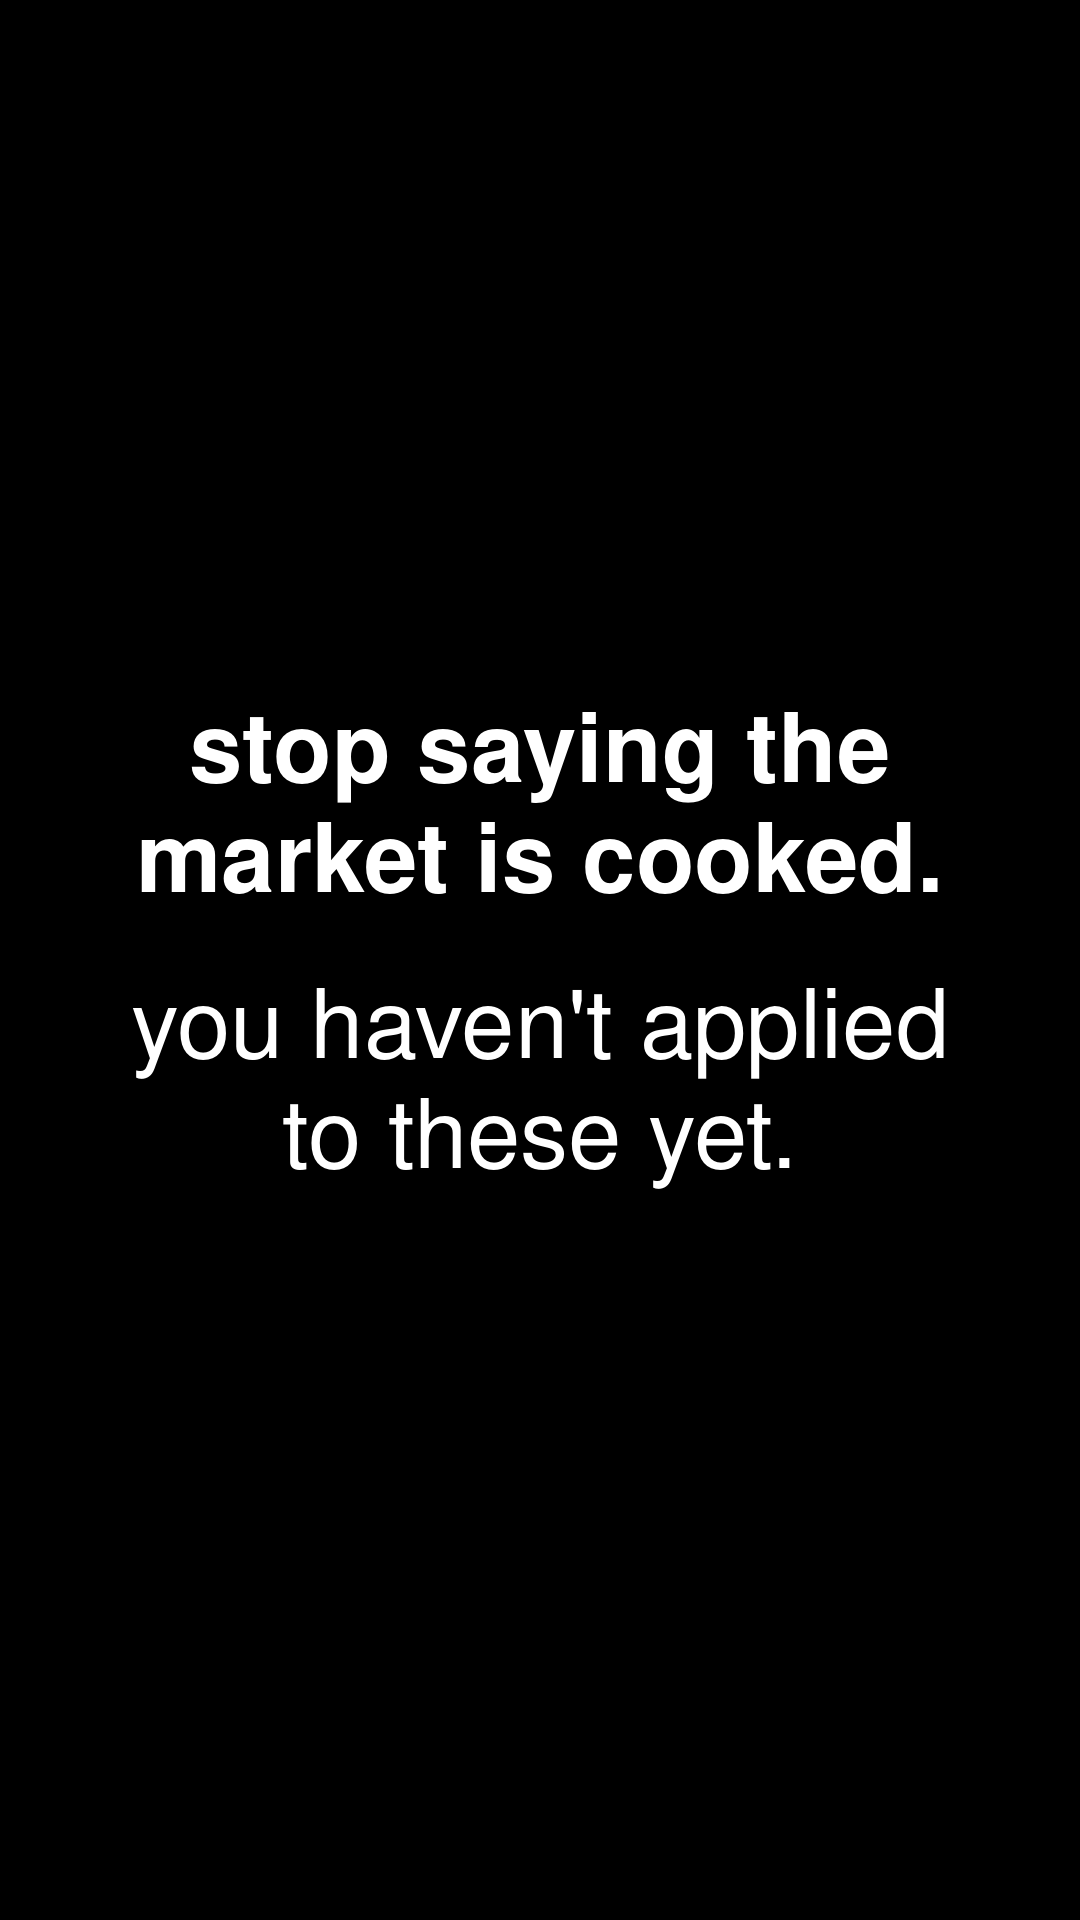
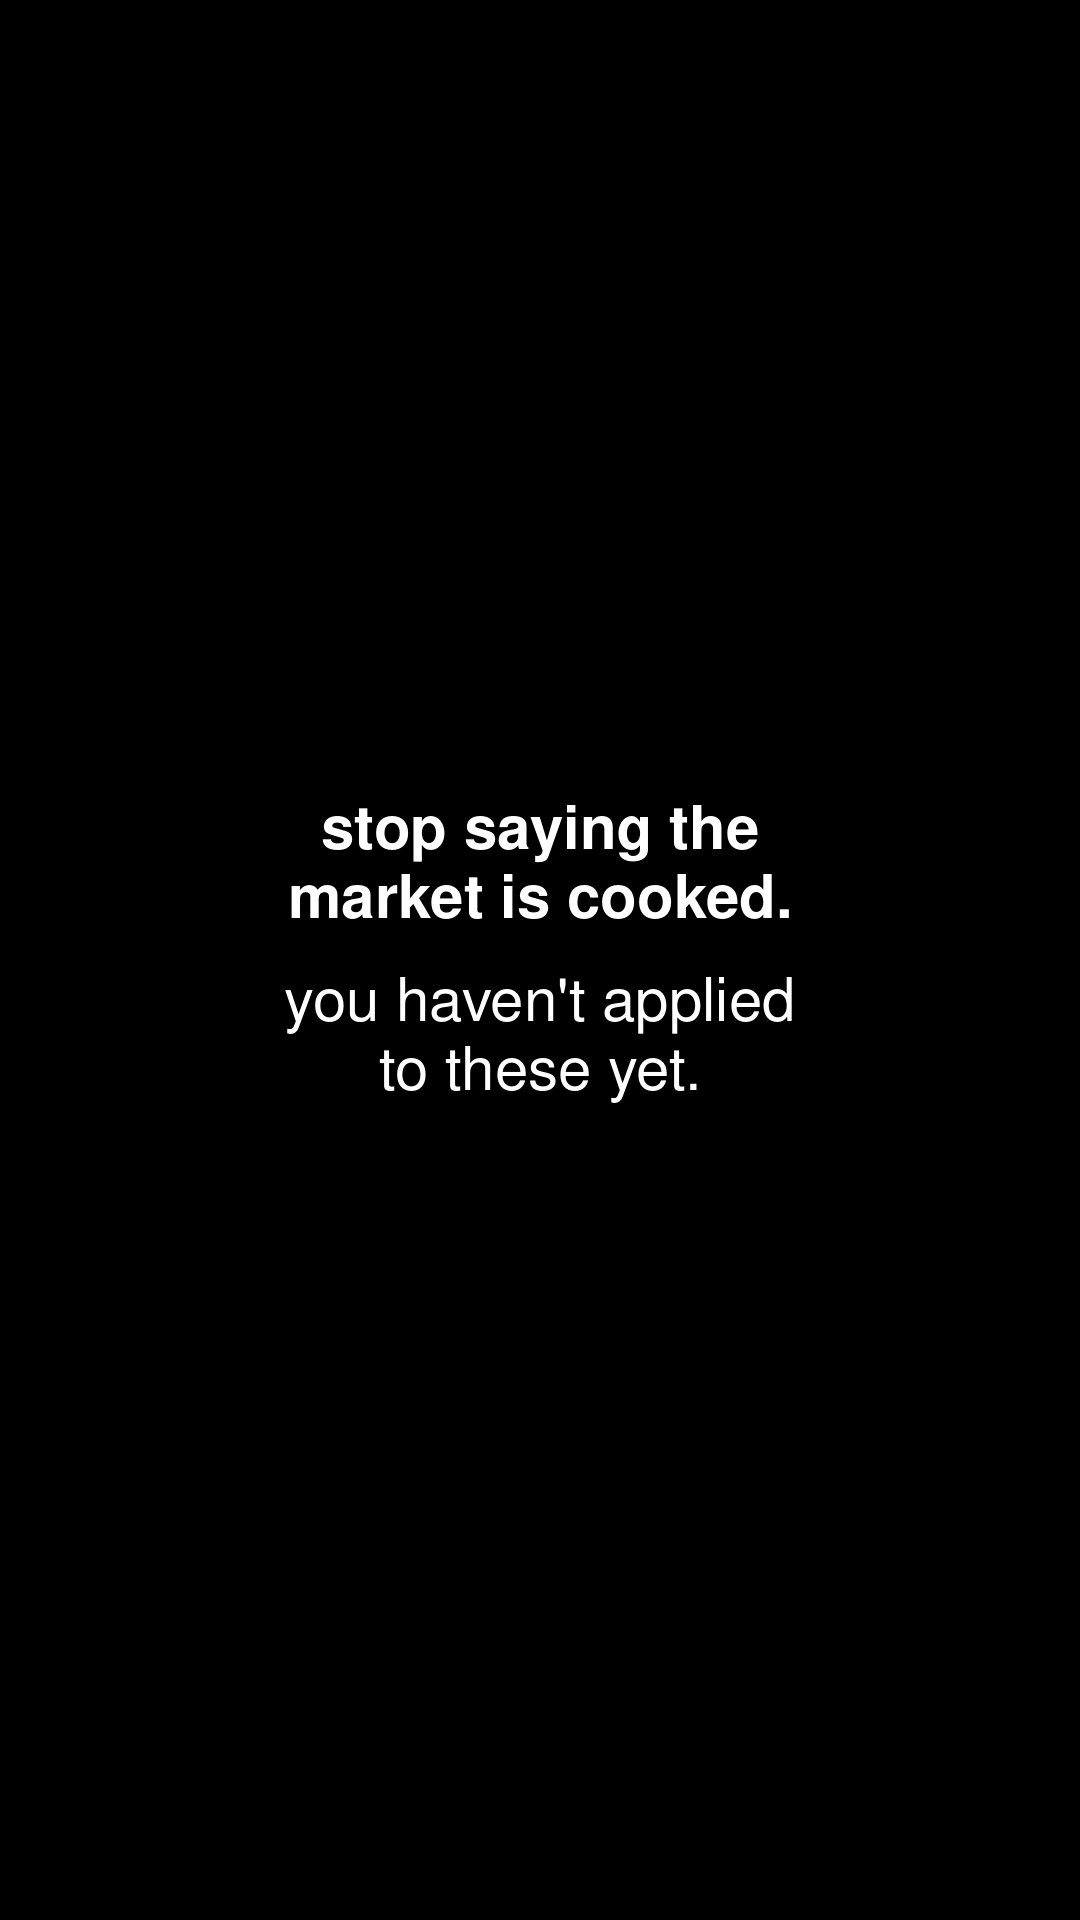
Shrink cover text to TikTok caption size
Claude-Session: https://claude.ai/code/session_01Xo7HnJGz5n5KZLb1Sbzz9R

Changed region(s): [[0.1222, 0.375, 0.8861, 0.625]]

diff --git a/fellowship-slides/make_slides.py b/fellowship-slides/make_slides.py
@@ -19,7 +19,7 @@ HELVETICA = {  # Nimbus Sans: URW's metric-compatible Helvetica clone
     "bold": ROOT / "assets" / "NimbusSans-Bold.otf",
 }
 TEXT_COLOR = (255, 255, 255)
-COVER_SIZE = 96
+COVER_SIZE = 60
 # Each cover is a list of (text, weight); None marks a half-line gap.
 # The first cover becomes output/00-cover.png, the rest go to output/cover-options/.
 COVERS = {
